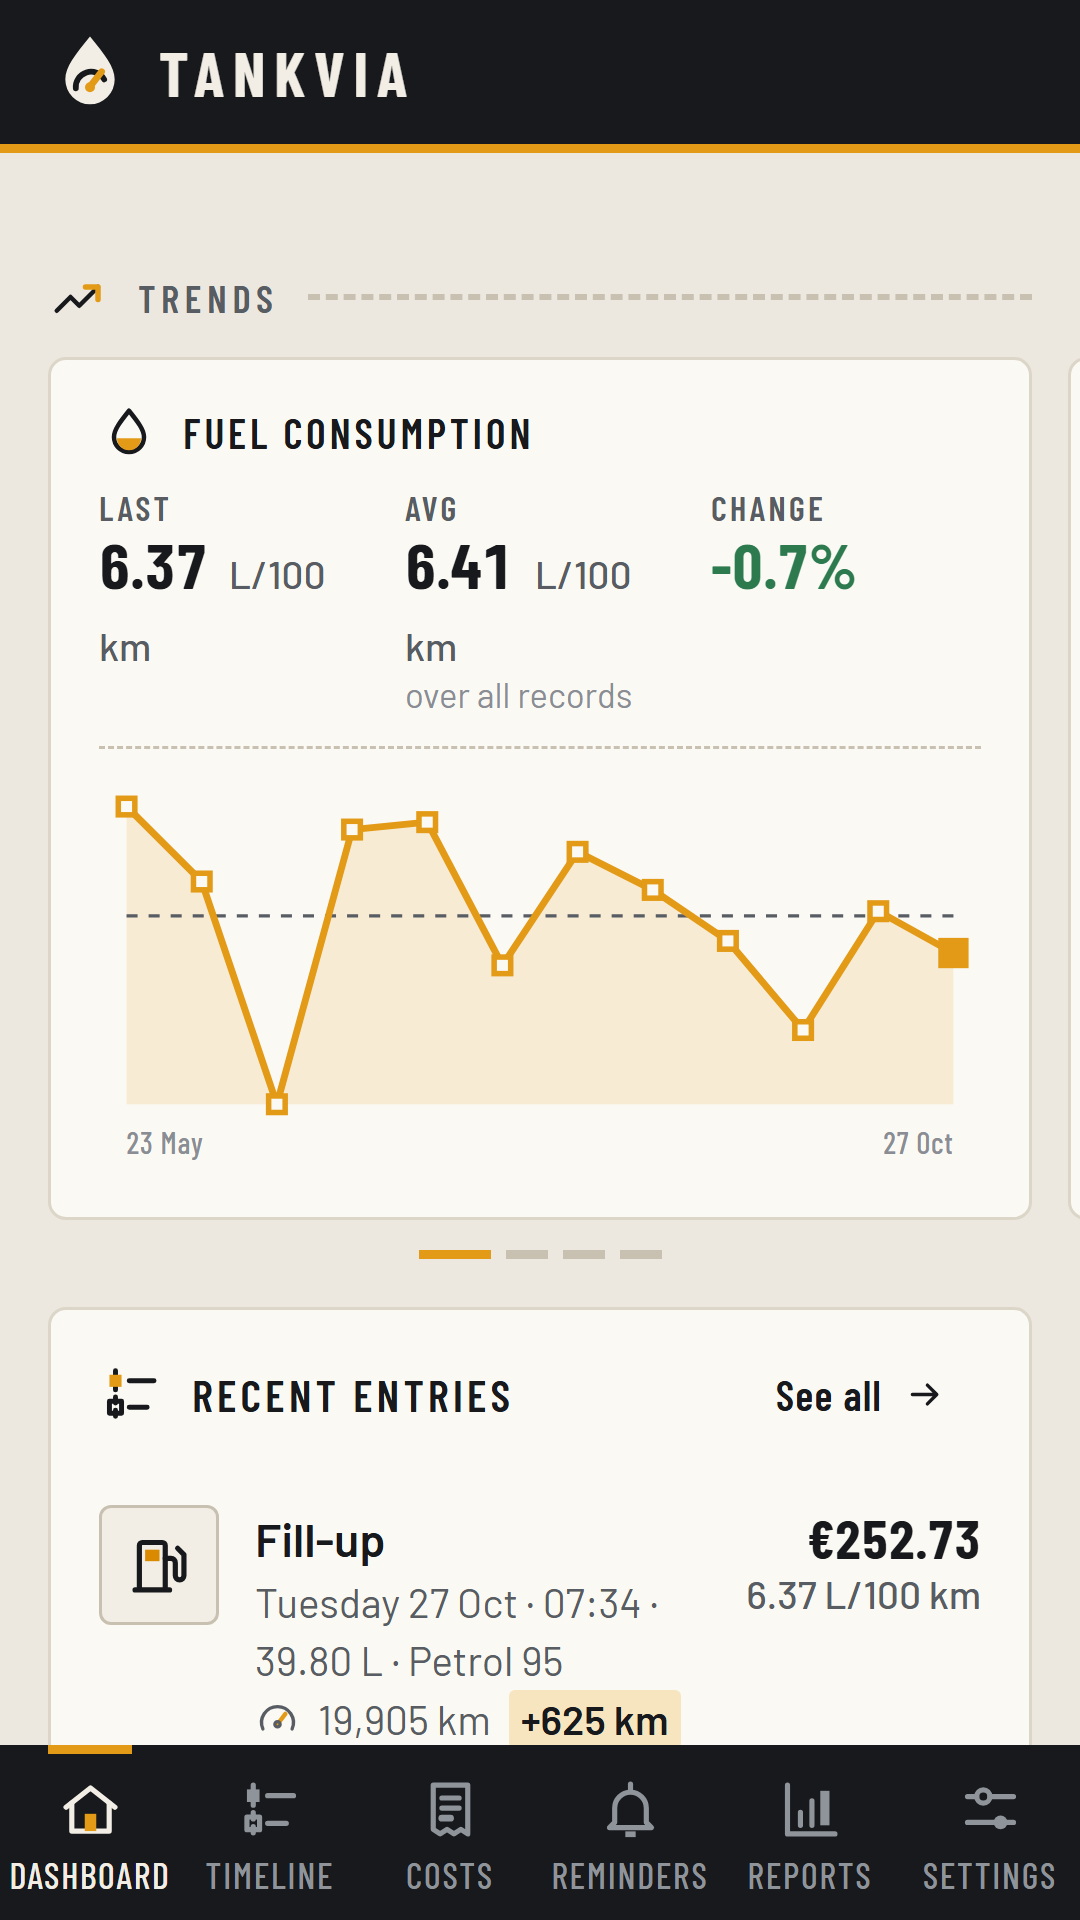
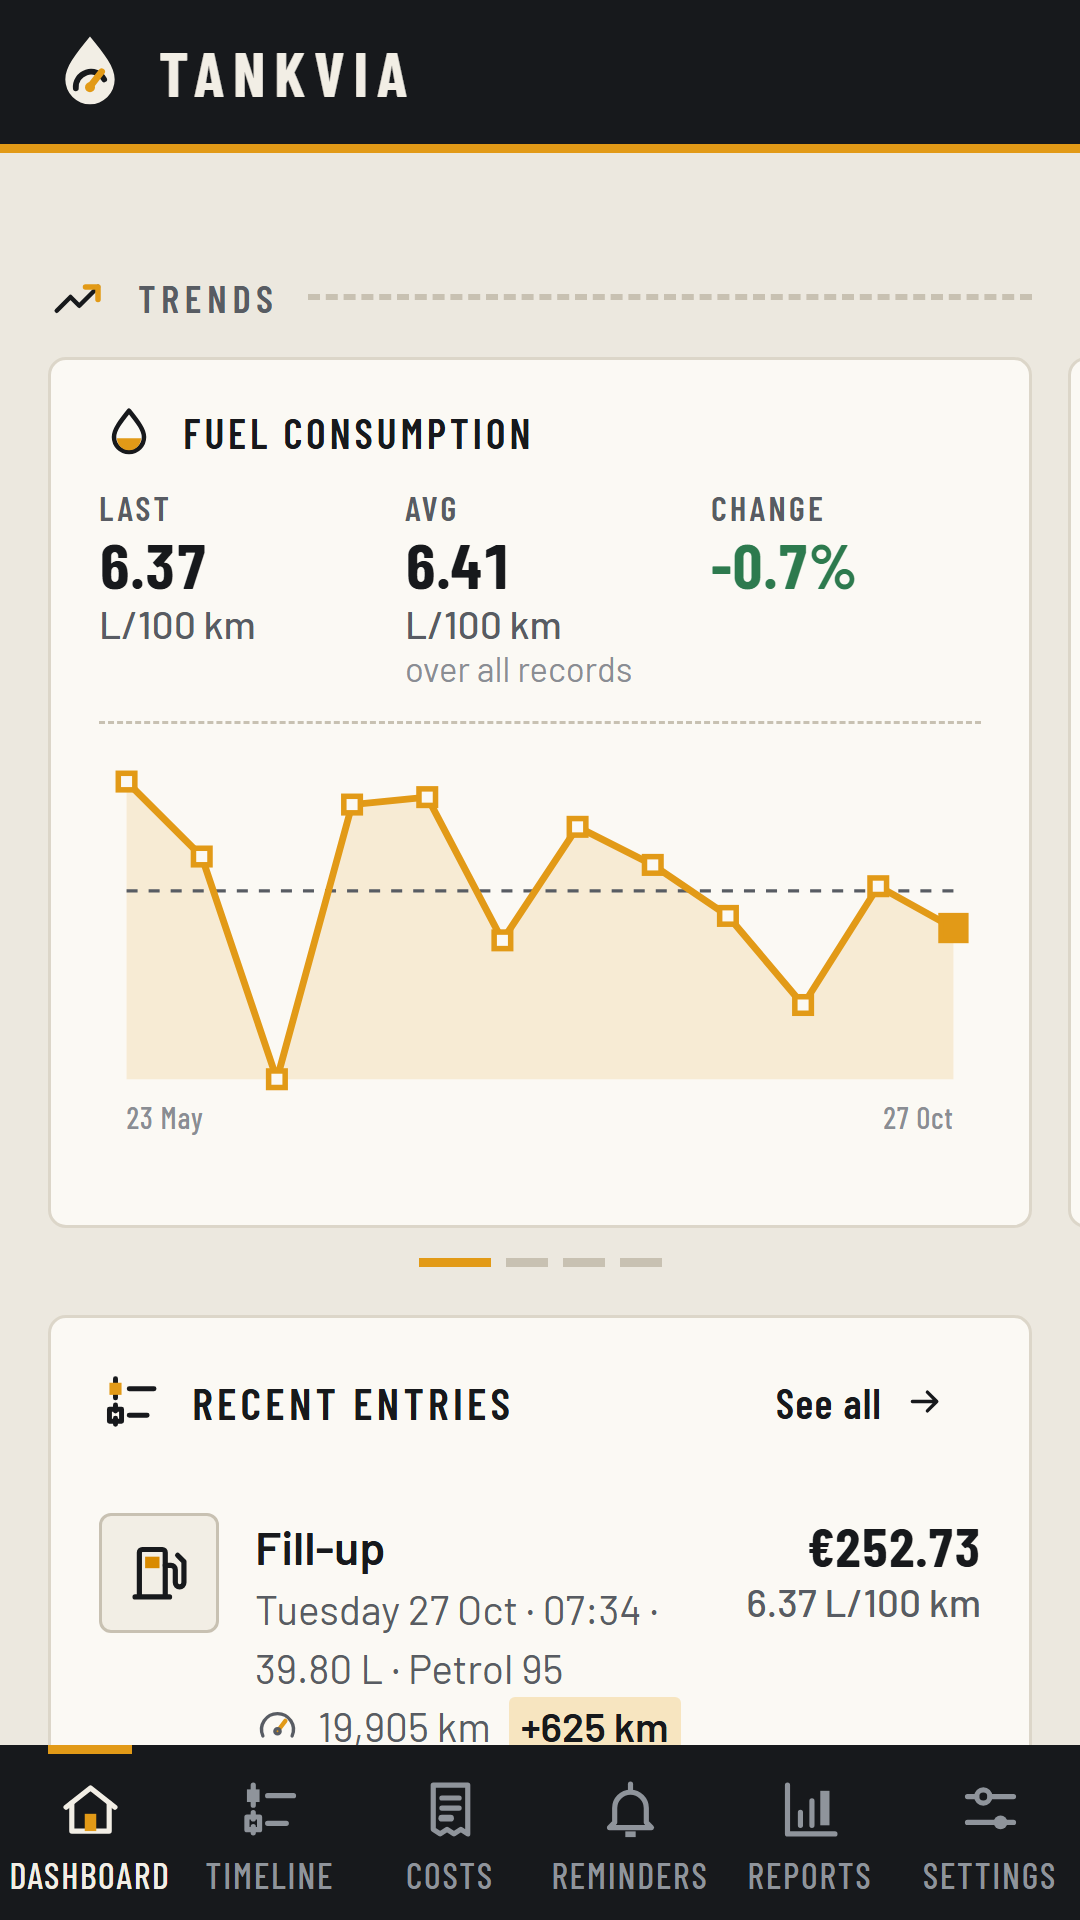
Fix the unit wrapping in trend cards and cut-off menu labels in all languages

diff --git a/docs/index.html b/docs/index.html
@@ -63,7 +63,7 @@ main{max-width:860px;margin:0 auto;padding:16px}
 
 /* bottom bar: same dark band, amber needle over the active tab */
 nav{position:fixed;bottom:0;left:0;right:0;background:var(--head);display:flex;justify-content:center;padding-bottom:var(--sab);z-index:5}
-nav button{position:relative;flex:1;max-width:150px;min-width:0;background:none;border:0;color:#8F949B;padding:10px 2px 8px;font:500 12px var(--f-num);letter-spacing:.05em;text-transform:uppercase;cursor:pointer;display:flex;flex-direction:column;align-items:center;gap:3px;overflow:hidden;--ic-a:#8F949B}
+nav button{position:relative;flex:1;max-width:150px;min-width:0;background:none;border:0;color:#8F949B;padding:10px 2px 8px;font:500 var(--nav-fs,12px) var(--f-num);letter-spacing:var(--nav-ls,.05em);text-transform:uppercase;cursor:pointer;display:flex;flex-direction:column;align-items:center;gap:3px;overflow:hidden;--ic-a:#8F949B}
 nav button .ic{position:relative;line-height:0}
 nav button .i{width:23px;height:23px}
 nav button.on{color:var(--head-ink);--ic-a:var(--accent)}
@@ -217,6 +217,8 @@ button.icon{padding:6px;min-height:34px;min-width:34px;justify-content:center}
 .slide .grid>div:first-child{display:grid;grid-template-columns:repeat(3,minmax(0,1fr));gap:4px 12px;margin-bottom:10px;padding-bottom:10px;border-bottom:1px dashed var(--line-2)}
 .slide .sl{font:600 11.5px var(--f-num);letter-spacing:.09em;text-transform:uppercase;color:var(--ink-2)}
 .slide .sv{font:700 21px/1.15 var(--f-num);font-variant-numeric:tabular-nums}
+.slide .sv .u{display:block;margin-left:0;white-space:nowrap}
+@media (max-width:340px){.slide .sv{font-size:17px}.mtab{gap:6px 8px}.mtab>em{font-size:16px}}
 .slide .sn{font-size:11.5px;color:var(--ink-3);line-height:1.25}
 .dots{display:flex;justify-content:center;gap:5px;margin:2px 0 16px}
 .dots i{width:14px;height:3px;background:var(--line-2)}
@@ -493,6 +495,11 @@ const defaults=()=>{
 const $=s=>document.querySelector(s);
 const esc=s=>String(s??"").replace(/[&<>"']/g,c=>({"&":"&amp;","<":"&lt;",">":"&gt;",'"':"&quot;","'":"&#39;"}[c]));
 const t=k=>I18N[S.settings.lang]?.[k]??I18N.en[k]??k;
+// Shorter words for the bottom menu, only where the full one can't fit a 60 px wide tab; screen titles keep the full word.
+const NAV_SHORT={pl:{reminders:"Terminy"},de:{reminders:"Termine",settings:"Optionen"},fr:{dashboard:"Accueil"},es:{reminders:"Avisos"},nl:{reminders:"Meldingen"},da:{settings:"Opsætning"},sv:{settings:"Alternativ"},nb:{settings:"Oppsett"},fi:{reminders:"Muistutus"},hu:{reminders:"Teendők"},bg:{timeline:"История",reminders:"Срокове",settings:"Опции"},uk:{timeline:"Історія",reminders:"Терміни",settings:"Опції"},tr:{timeline:"Geçmiş",reminders:"Uyarılar"},ja:{timeline:"履歴",reminders:"通知"}};
+// All menu labels share one size: the largest at which none of them is cut off.
+function fitNav(){const box=$("#tabs"),labels=[...box.querySelectorAll(".lbl")];for(const fs of [12,11.5,11,10.5,10,9.5,9]){box.style.setProperty("--nav-fs",fs+"px");box.style.setProperty("--nav-ls",fs<12?".01em":".05em");if(!labels.some(l=>l.scrollWidth>l.clientWidth))break}}
+addEventListener("resize",fitNav);
 const uid=()=>Date.now().toString(36)+Math.random().toString(36).slice(2,7);
 const U=()=>UNITS[S.settings.units];
 const cur=()=>S.settings.currency;
@@ -1075,8 +1082,10 @@ function render(){
  $("#zoomBtn").innerHTML=`${ic("search")}${Math.round(zm*100)}%`;$("#zoomBtn").title=$("#zoomBtn").ariaLabel=t("textSize");
  const V=veh(),sel=$("#vehSel");sel.hidden=S.vehicles.length<2;sel.innerHTML=S.vehicles.map(v=>`<option value="${v.id}" ${v.id===S.active?"selected":""}>${esc(v.name)}</option>`).join("");
  const due=mine(S.reminders).filter(r=>remStatus(r)?.cls==="danger").length;
- const tabs=[["dashboard","home",t("dashboard")],["fuel","timeline",t("timeline")],["costs","receipt",t("costs")],["reminders","bell",t("reminders")],["reports","chart",t("reports")],["settings","sliders",t("settings")]];
- $("#tabs").innerHTML=tabs.map(([k,n,l])=>`<button class="${k===tab?"on":""}" data-act="tab" data-id="${k}"><span class="ic">${ic(n)}${k==="reminders"&&due?`<span class="badge danger">${due}</span>`:""}</span><span class="lbl">${l}</span></button>`).join("");
+ const short=NAV_SHORT[S.settings.lang]||{};
+ const tabs=[["dashboard","home","dashboard"],["fuel","timeline","timeline"],["costs","receipt","costs"],["reminders","bell","reminders"],["reports","chart","reports"],["settings","sliders","settings"]];
+ $("#tabs").innerHTML=tabs.map(([k,n,l])=>`<button class="${k===tab?"on":""}" data-act="tab" data-id="${k}" aria-label="${t(l)}"><span class="ic">${ic(n)}${k==="reminders"&&due?`<span class="badge danger">${due}</span>`:""}</span><span class="lbl">${short[l]||t(l)}</span></button>`).join("");
+ document.fonts.ready.then(fitNav);
  $("#app").innerHTML={dashboard:viewDashboard,fuel:viewFuel,costs:viewCosts,reminders:viewReminders,reports:viewReports,settings:viewSettings}[tab]();
  const imp=$("#importFile");if(imp)imp.onchange=importData;
  $("#fab").hidden=!V||tab==="settings";
@@ -1128,7 +1137,7 @@ function demoState(lang){
 }
 
 /* ---------- install & notifications ---------- */
-const APP_VERSION="v15"; // keep in sync with VERSION in sw.js
+const APP_VERSION="v16"; // keep in sync with VERSION in sw.js
 let installEvt=null;
 const isNative=!!window.Capacitor?.isNativePlatform?.(); // running as the Google Play / App Store app
 const standalone=()=>isNative||matchMedia("(display-mode: standalone)").matches||navigator.standalone===true;

diff --git a/docs/sw.js b/docs/sw.js
@@ -1,5 +1,5 @@
 // Bump VERSION on every release so phones pick up the new files.
-const VERSION = "v15";
+const VERSION = "v16";
 const CACHE = "refuelling-" + VERSION;
 // Big libraries in vendor/ are cached on first use, in a cache kept across versions (rename it when a library changes).
 const VENDOR_CACHE = "refuelling-vendor-1";
